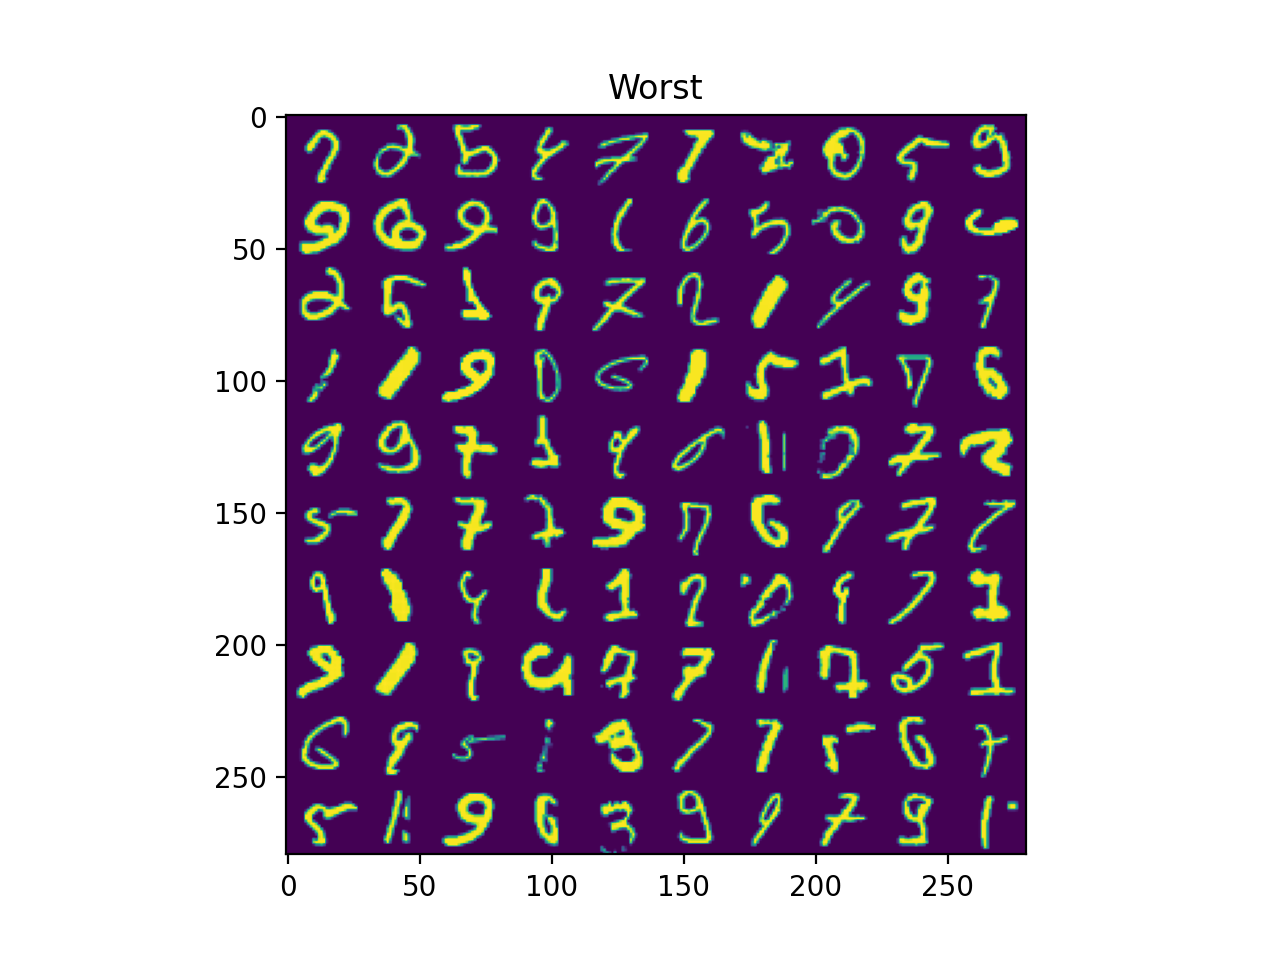
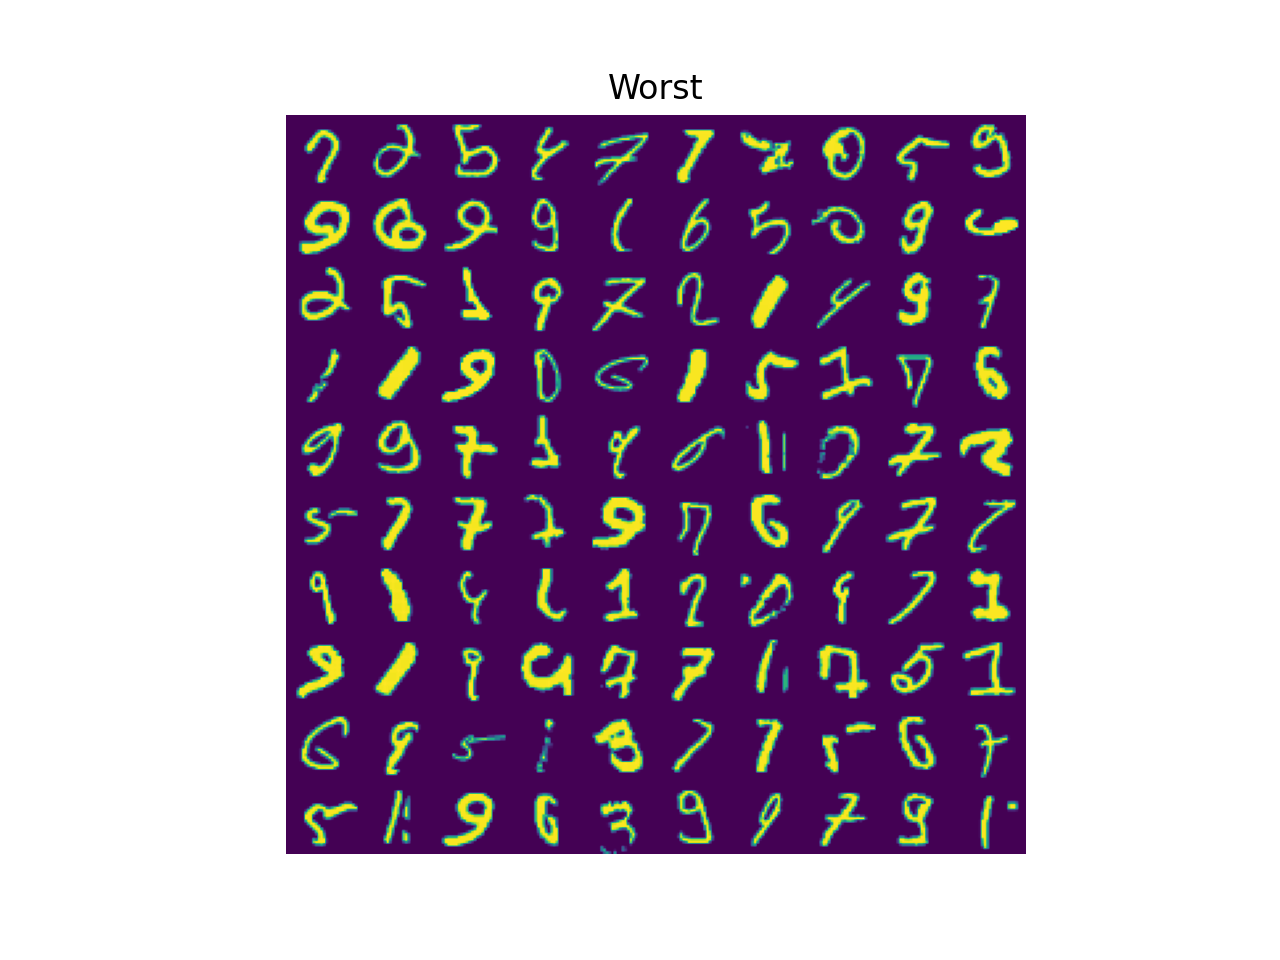
remove axis from "worst.png"

diff --git a/test.py b/test.py
@@ -73,11 +73,11 @@ if __name__ == "__main__":
     best, worst = get_grid()
 
     plt.axis("off")
-
     plt.title("Best")
     imshow(best)
     plt.show()
 
+    plt.axis("off")
     plt.title("Worst")
     imshow(worst)
     plt.show()
